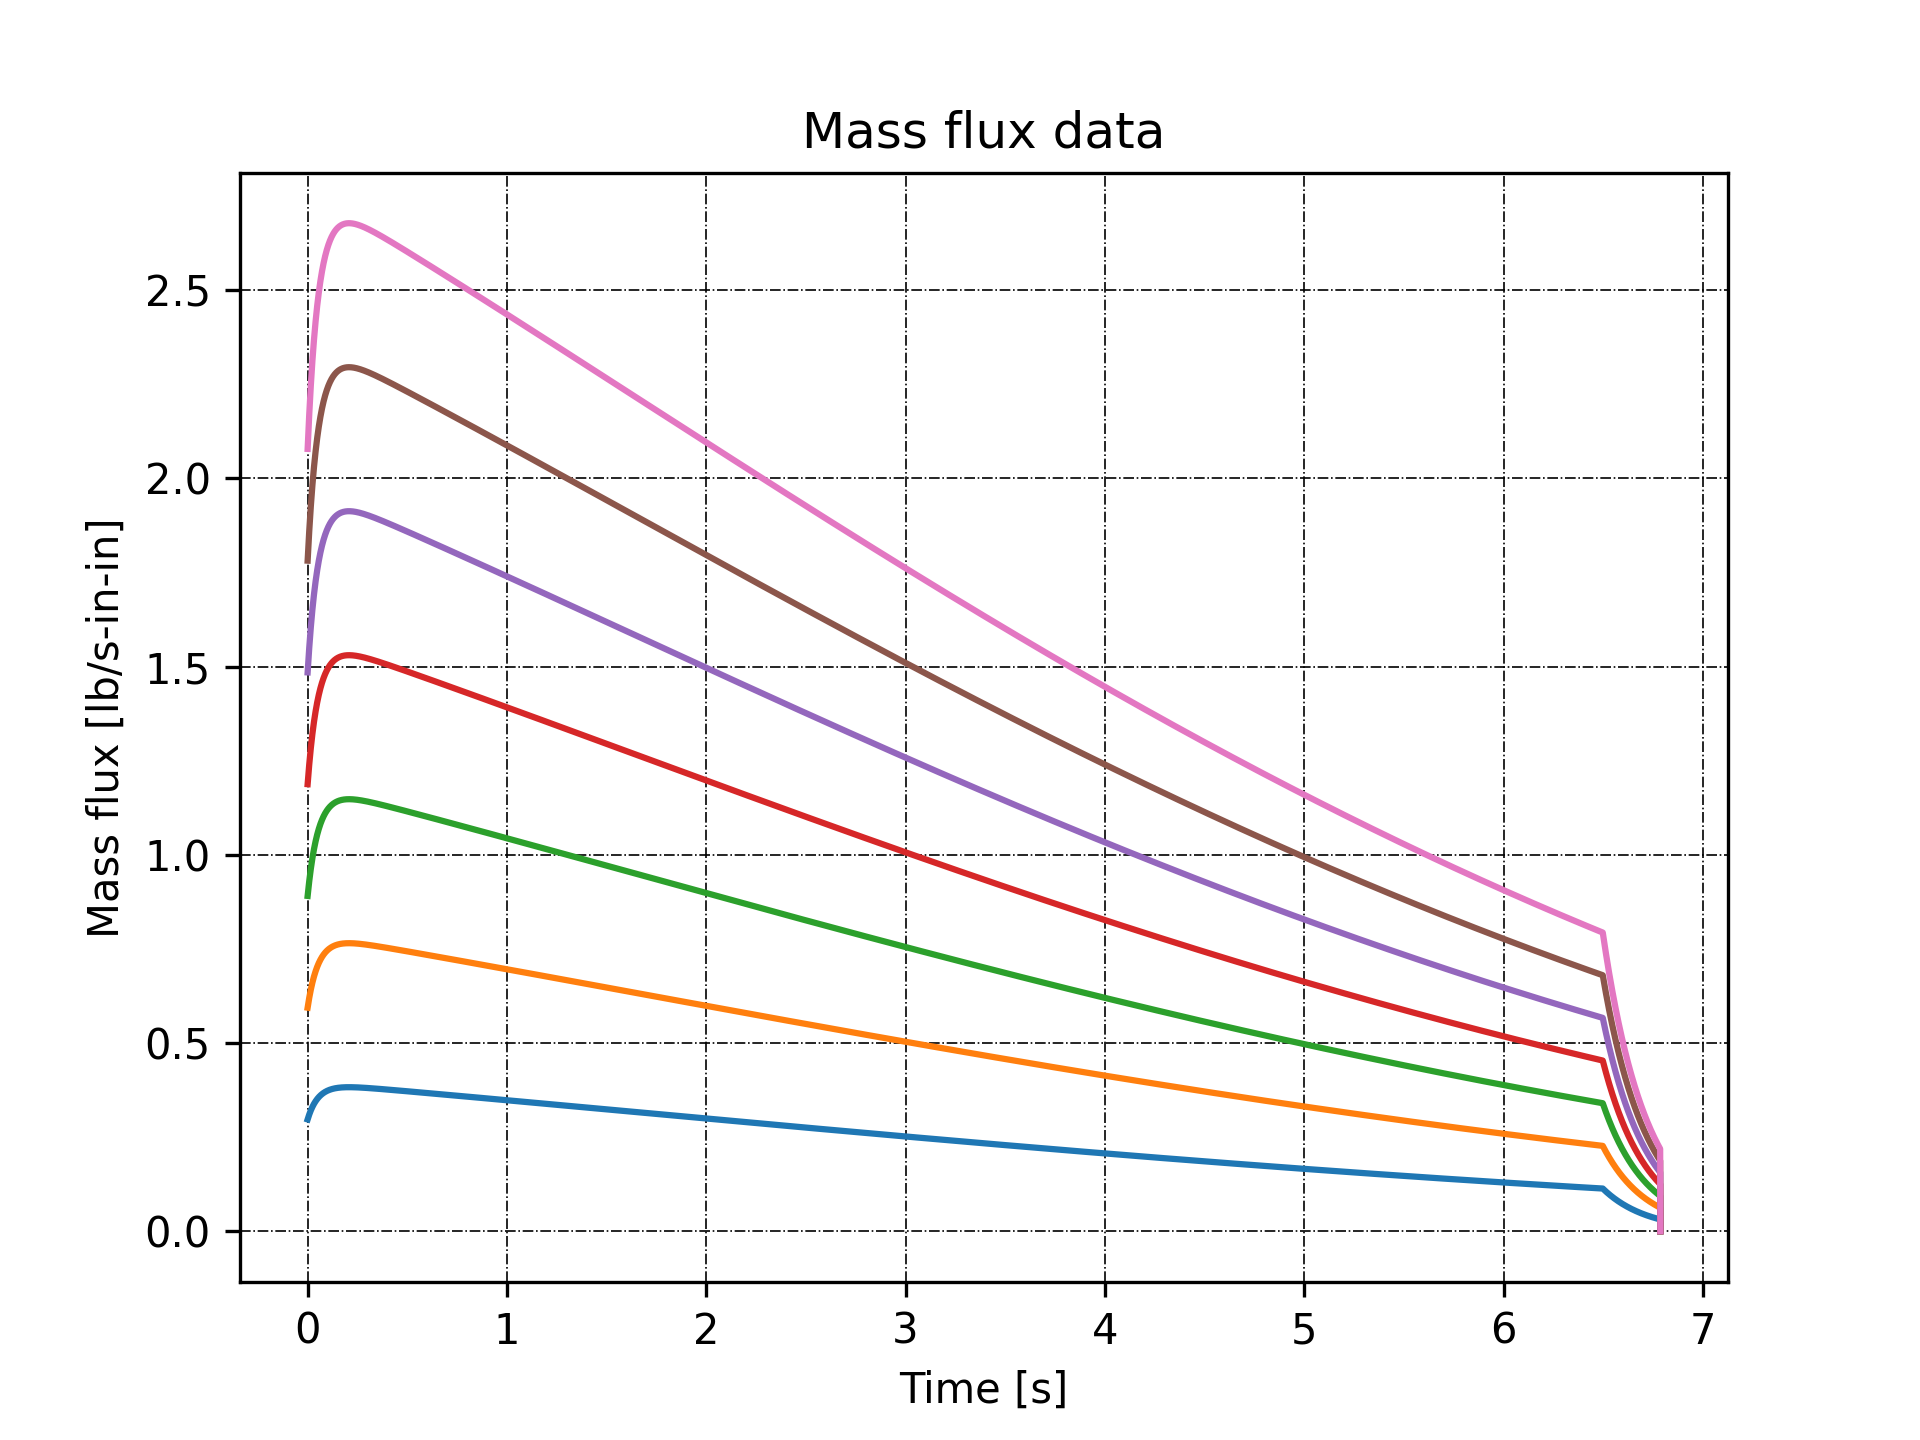
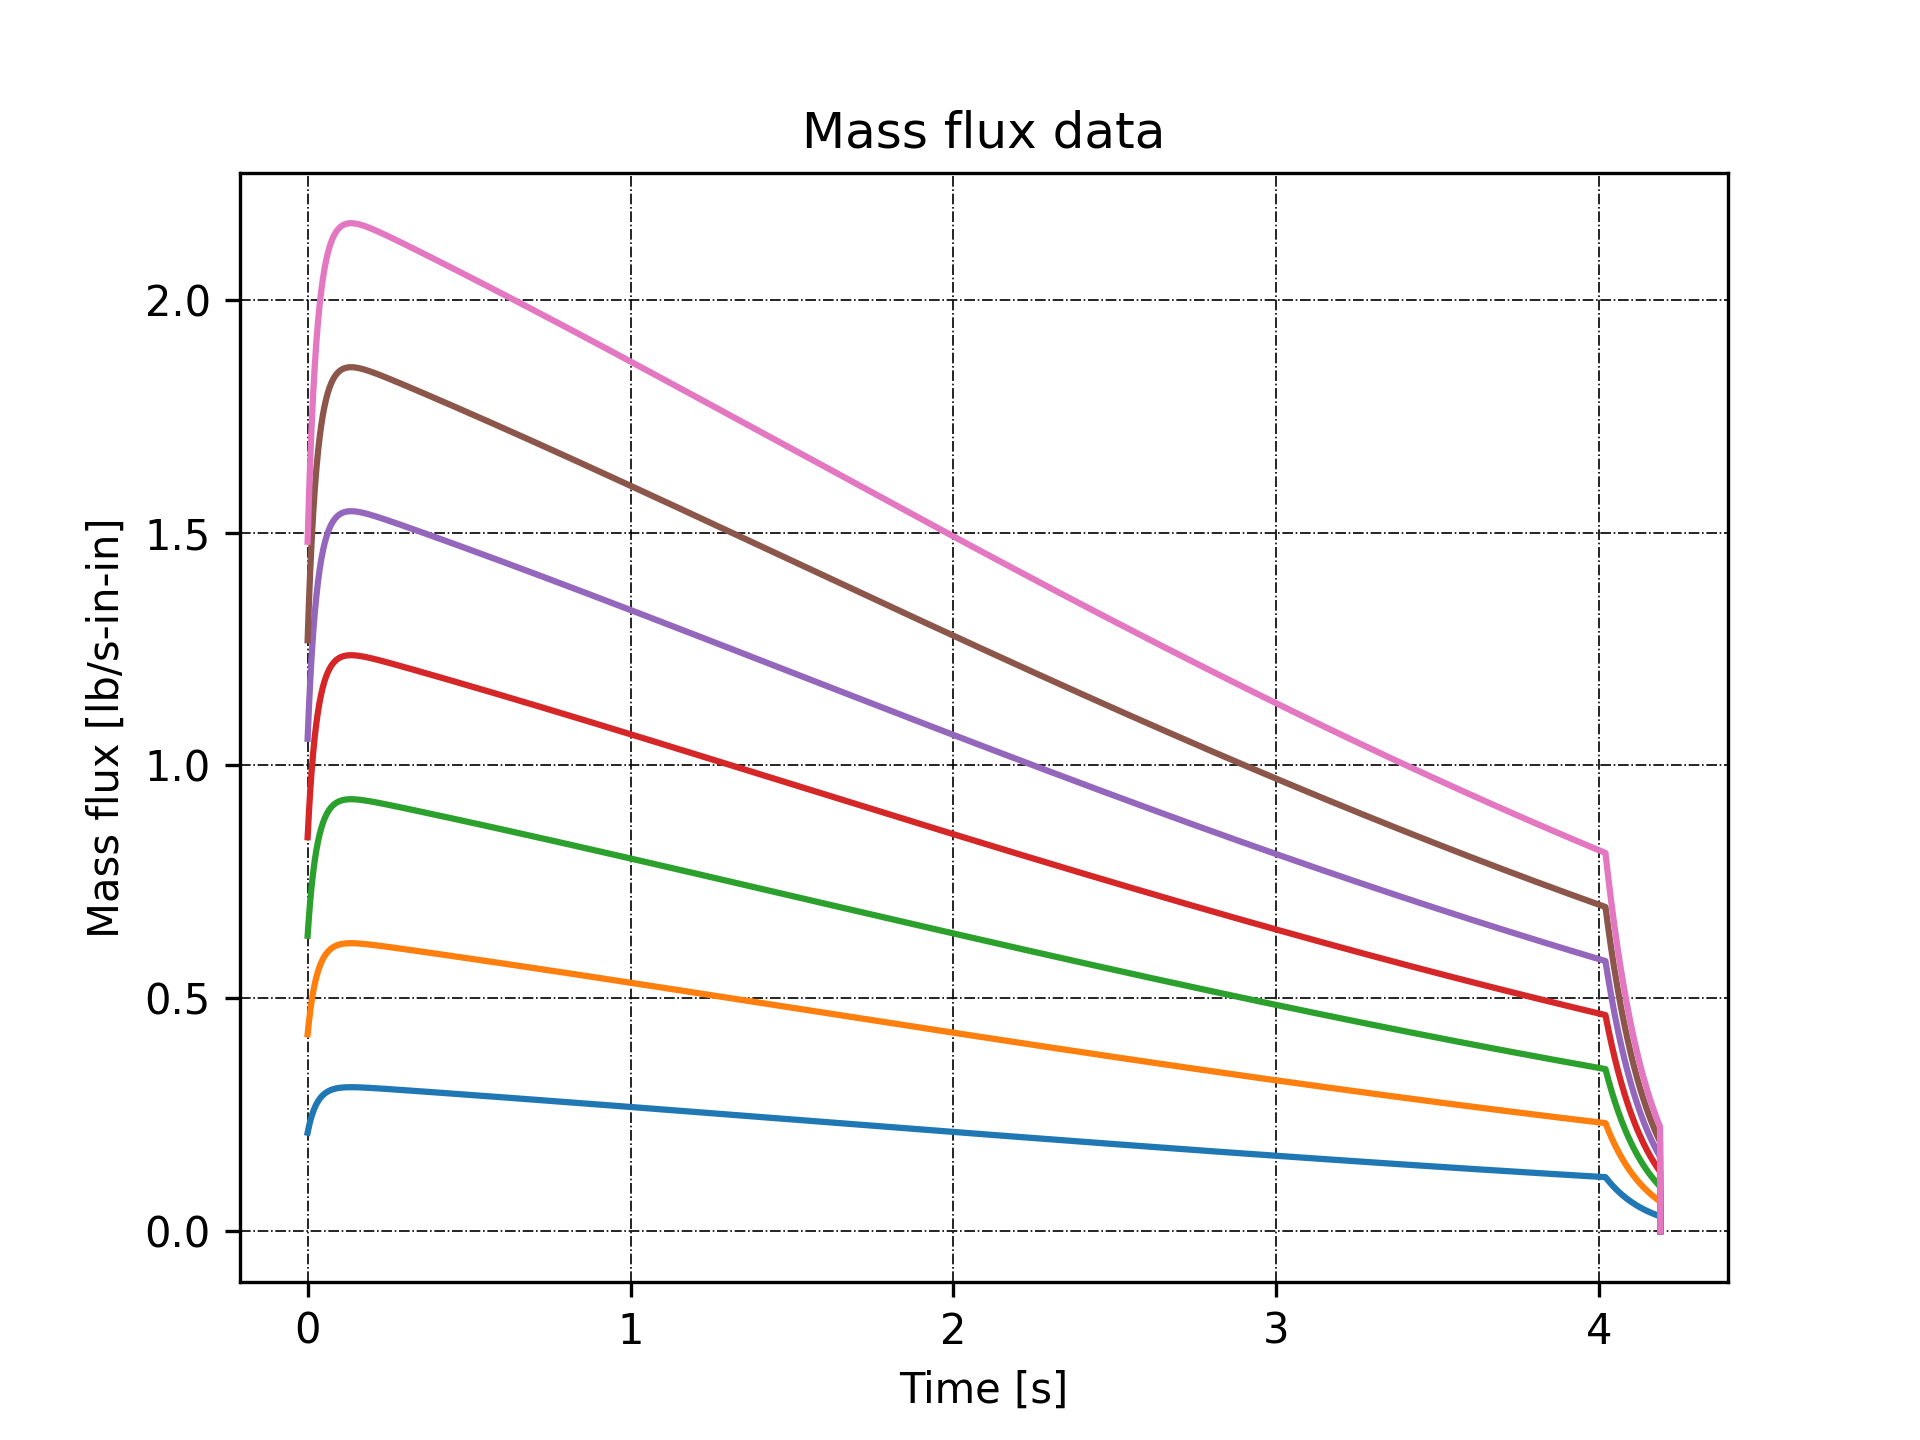
Version Alpha

diff --git a/SRM Solver.py b/SRM Solver.py
@@ -12,6 +12,7 @@
 # displayed in the Command Window. Inside the output folder created, a .eng and a .csv file will
 # also be available with the important data for a rocket ballistic simulation.
 # Make sure all the modules are properly installed!
+# Note that the grain #1 is the grain closest to the bulkhead and farthest from the nozzle.
 #
 # The following assertions were taken into consideration:
 # - Propellant consisting of 2D BATES grain segments
@@ -67,11 +68,11 @@ start = time.time()
 # INPUTS
 
 # Motor name (NO SPACES):
-name = 'NV3'
+name = 'SRM3K'
 # Motor manufacturer (NO SPACES):
-manufacturer = 'LP'
+manufacturer = 'SR'
 # Motor structural mass [kg]:
-m_motor = 20
+m_motor = 4.2
 
 # SIMULATION PARAMETERS INPUT
 # Web regression resolution:
@@ -79,7 +80,7 @@ web_res = 1000
 # .eng file resolution
 eng_res = 25
 # Time step [s]
-dt = 1e-3
+dt = 0.001
 # Minimal safety factor
 sf = 4
 
@@ -87,11 +88,11 @@ sf = 4
 # Grain count
 N = 7
 # Grain external diameter [m]
-D_grain = 110e-3
+D_grain = 75e-3
 # Grains 1 to 'N' core diameter [m]
-D_core = np.array([40, 40, 40, 40, 40, 40, 40]) * 1e-3
+D_core = np.array([32, 32, 32, 32, 32, 32, 32]) * 1e-3
 # Grains 1 to 'N' length [m]
-L_grain = np.array([185, 185, 185, 185, 185, 185, 185]) * 1e-3
+L_grain = np.array([130, 130, 130, 130, 130, 130, 130]) * 1e-3
 
 # PROPELLANT CHARACTERISTICS INPUT
 # Propellant name
@@ -103,11 +104,11 @@ T_external = 297
 # External pressure [Pa]
 P_external = 0.101325e6
 # Igniter pressure [Pa]
-P_igniter = 2e6
+P_igniter = 1.5e6
 
 # NOZZLE DIMENSIONS
 # Throat diameter [m]
-D_throat = 26e-3
+D_throat = 18.5e-3
 # Nozzle material yield strength [Pa]
 Y_nozzle = 215e6
 # Nozzle divergent and convergent angle [degrees]
@@ -118,11 +119,11 @@ C2 = 0.00000
 
 # COMBUSTION CHAMBER
 # Chamber inside diameter [m]
-D_in = 127e-3
+D_in = 82.55e-3
 # Chamber outside diameter [m]
-D_out = 139.7e-3
+D_out = 88.9e-3
 # Grain spacing [m]
-grain_spacing = 15e-3
+grain_spacing = 10e-3
 # Chamber yield strength [Pa]
 Y_cc = 240e6
 # Bulkhead yield strength [Pa]
